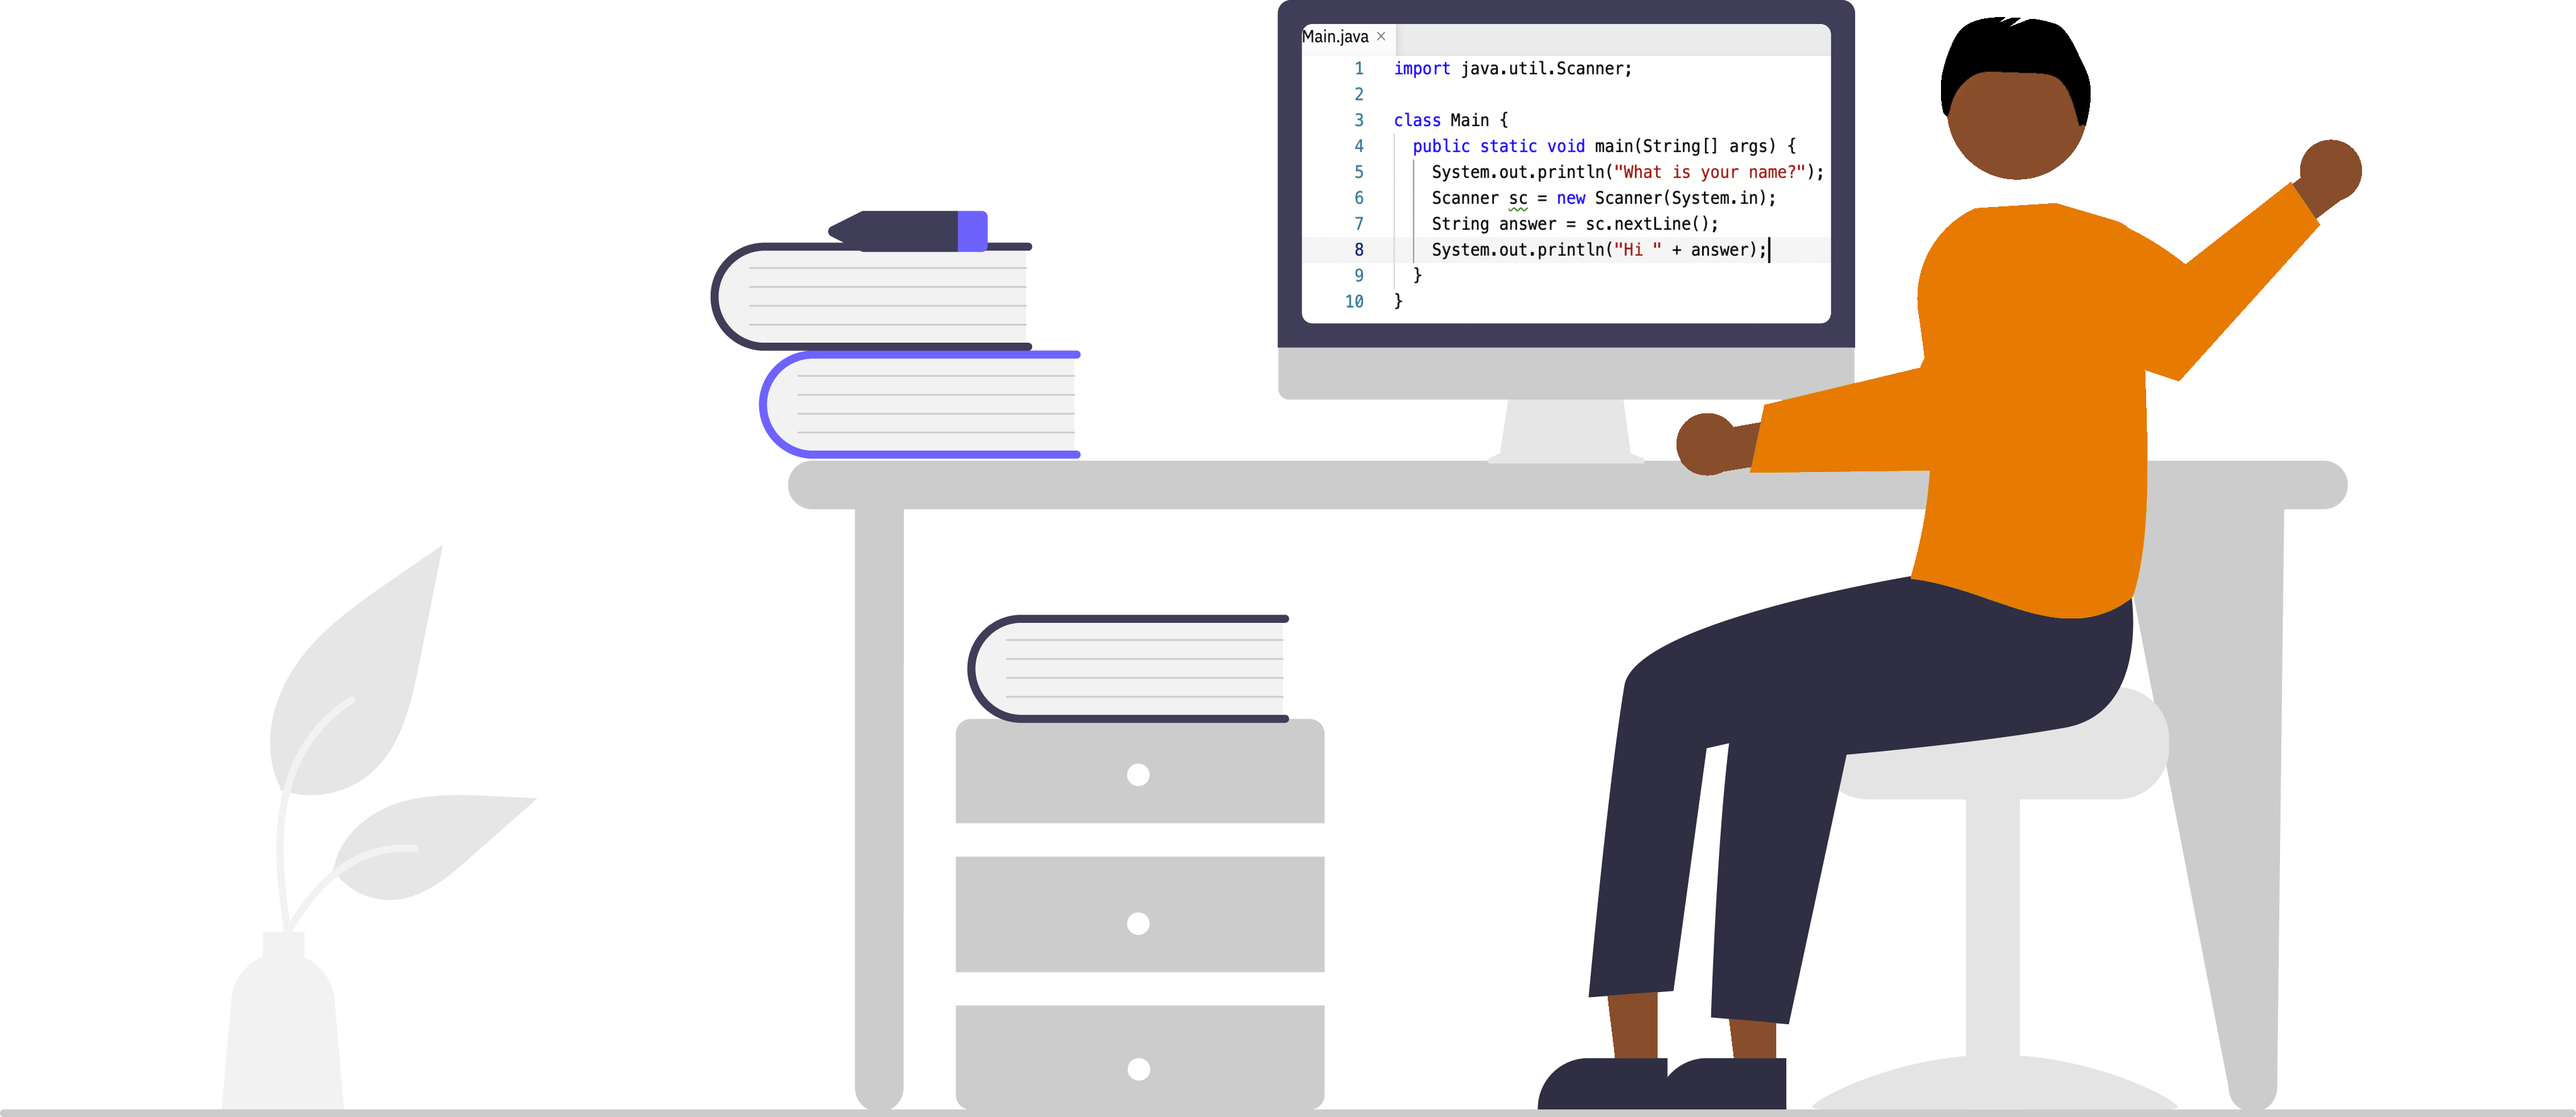
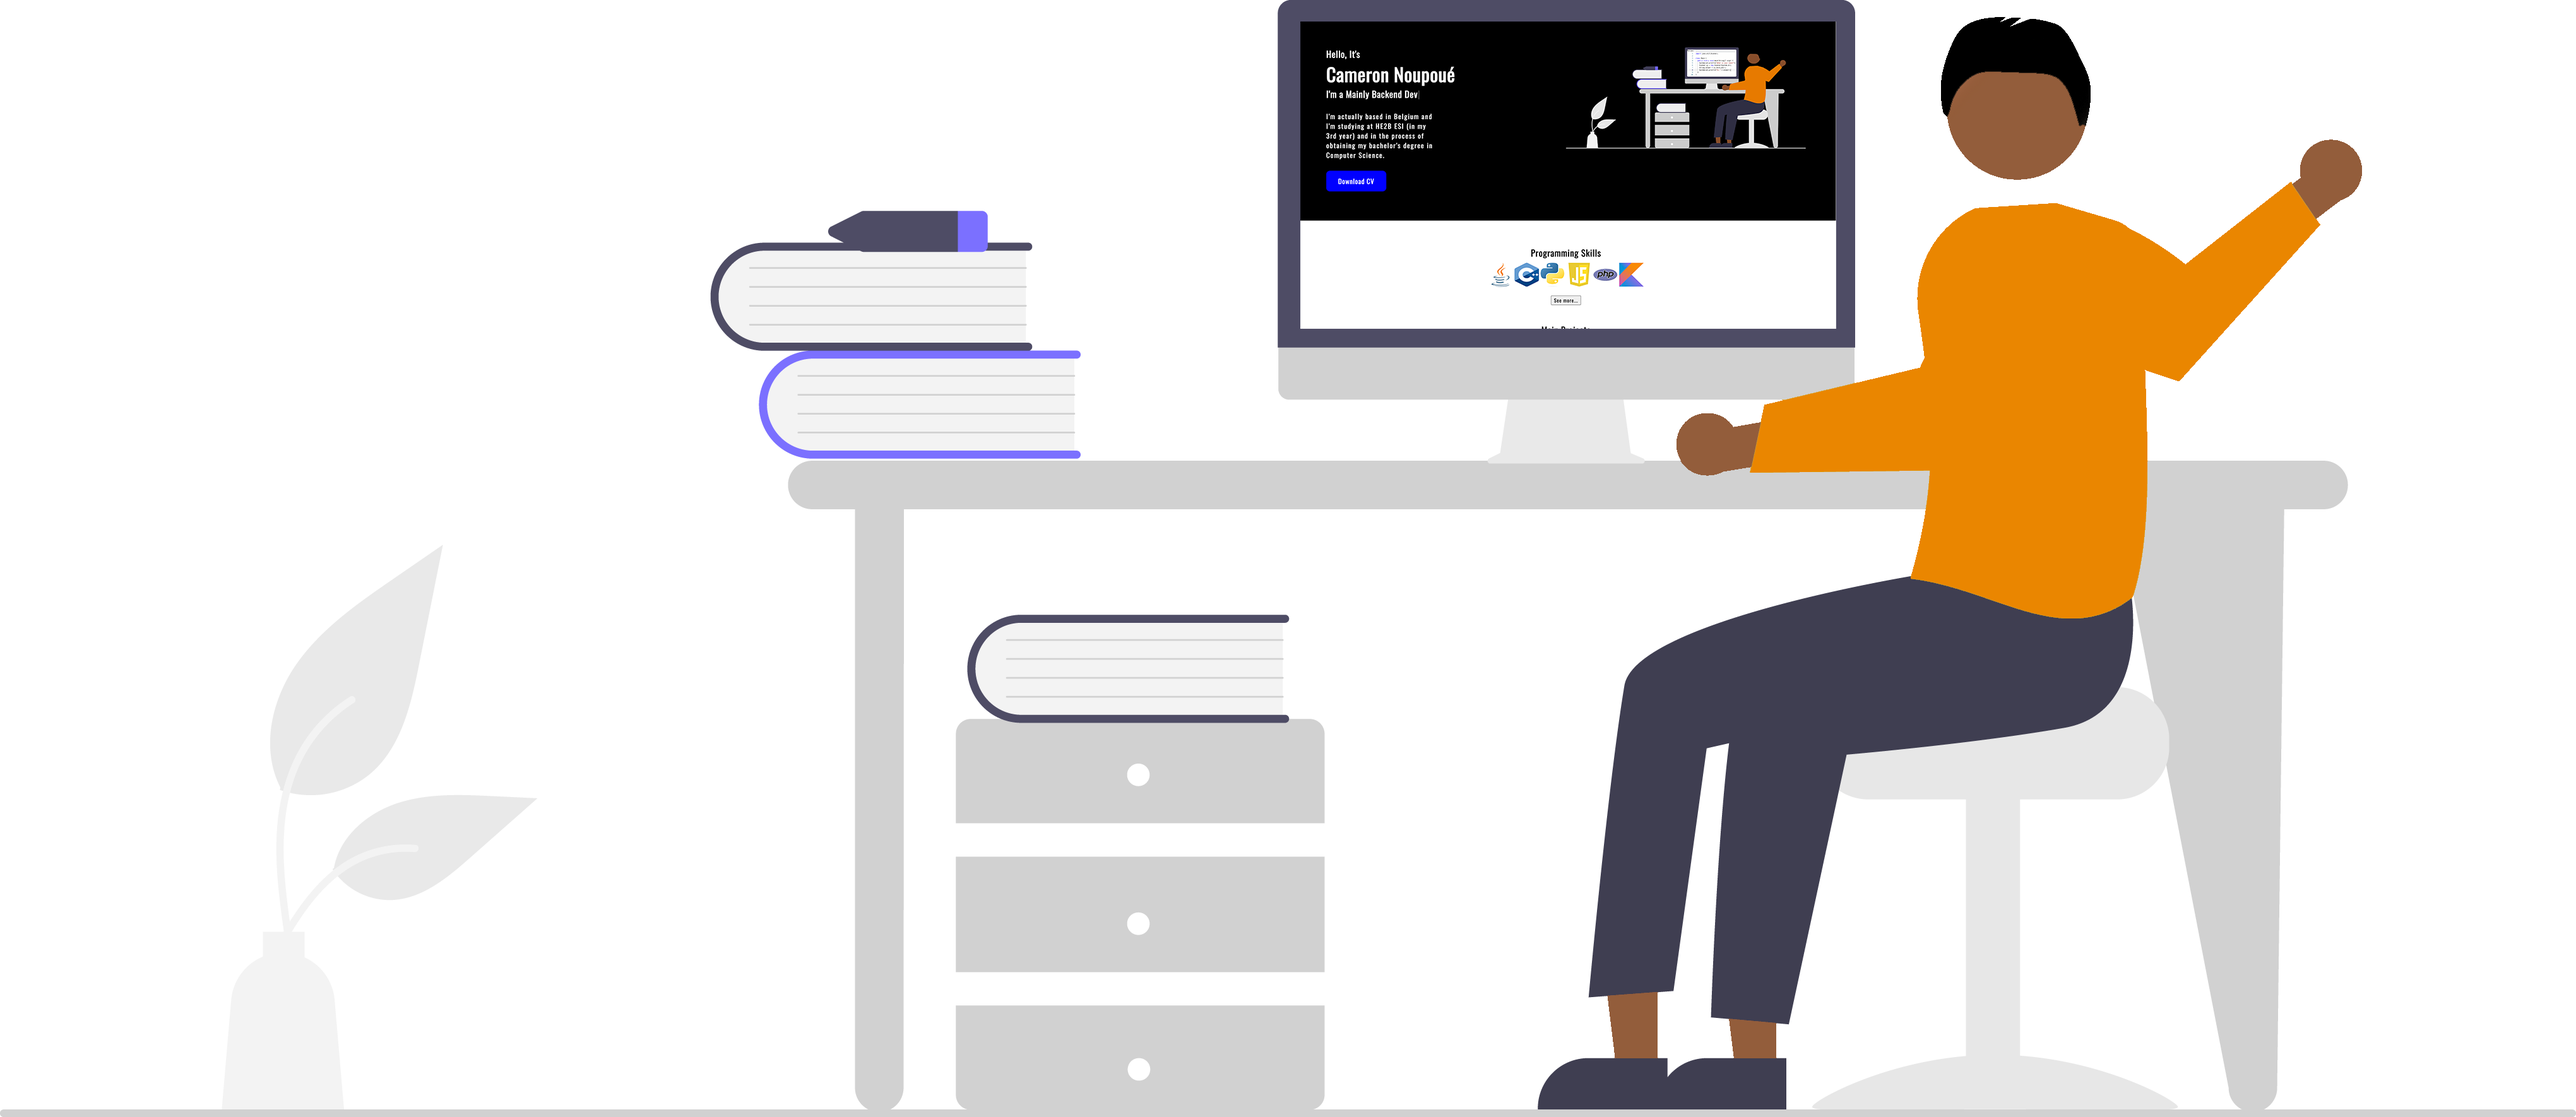
update main picture and add a cv button

Changed region(s): [[0.4979, 0.0, 0.7158, 0.3107]]

diff --git a/index.html b/index.html
@@ -16,12 +16,13 @@
     <header>
         <div class="leftSide">
             <h3>Hello, It's</h3>
-            <h1><a href="docs/cv.pdf" alt="cv" target="_blank">Cameron Noupoué</a></h1>
+            <h1>Cameron Noupoué</h1>
             <h2>I'm a <span class="multiple-text"></span></h2>
             <p>
                 I'm actually based in Belgium and I'm studying at HE2B ESI (in my 3rd year) and
                 in the process of obtaining my bachelor's degree in Computer Science.
             </p>
+            <a href="docs/cv.pdf" alt="cv" target="_blank"><button class="btn-cv">Download CV</button></a>
         </div>
         <div class="rightSide">
             <img src="img/decoration.png" alt="decoration">
@@ -38,7 +39,8 @@
                 <img src="img/python.png" alt="python" height="65" width="65" title="Python learning : Django & odoo">
                 <img src="img/javascript.svg" alt="javascript" height="65" width="65"
                     title="JS : dynamic website and games (sokoban, ...)">
-                <img src="img/kotlin.png" alt="kotlin" height="65" width="65" title="Kotlin : Mobile development">
+                <img src="img/php.svg" alt="php" height="65" width="65" title="PHP : Laravel development">
+                <img src="img/kotlin.png" alt="kotlin" width="65" title="Kotlin : Mobile development">
             </div>
             <button><a href="#modal">See more...</a></button>
         </section>
@@ -127,7 +129,7 @@
                         title="Express JS : framework used for climate-capsule project">
                     <img src="img/django.png" alt="django" height="65" width="65" title="Django">
                     <img src="img/springboot.svg" alt="springboot" height="65" width="65"
-                        title="Springboot : just tried to use it in my free time">
+                        title="Spring: creating a Course And Student app">
                     <img src="img/odoo.png" alt="odoo" height="65" width="65" title="Odoo : erp module creation">
                 </div>
                 <h3>Tech skills</h3>

diff --git a/style/index.css b/style/index.css
@@ -54,6 +54,26 @@ header div img {
           width: 100%;
 }
 
+.btn-cv {
+          color: white;
+          cursor: pointer;
+          border: none;
+          padding: 15px;
+          width: 25%;
+          background-color: blue;
+          border-radius: 10px;
+          font-size: large;
+          transition: all 0.3s ease;
+}
+
+.btn-cv:hover {
+          opacity: 0.8;
+}
+
+.btn-cv a {
+          text-decoration: none;
+}
+
 /* CONTENT */
 
 main {
